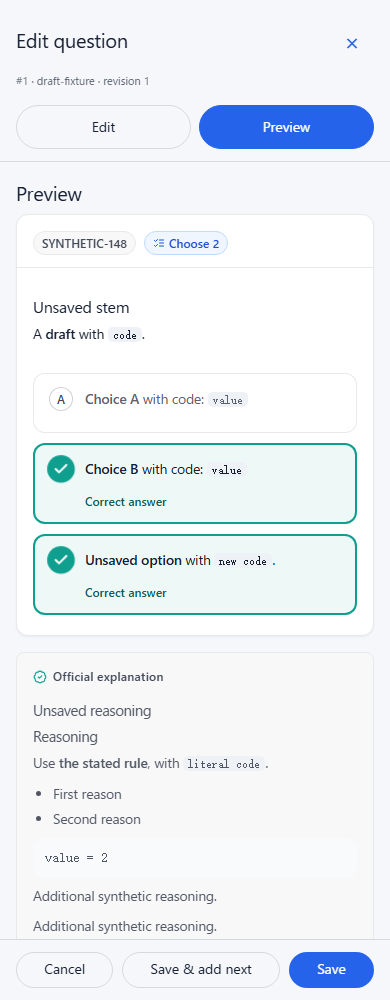
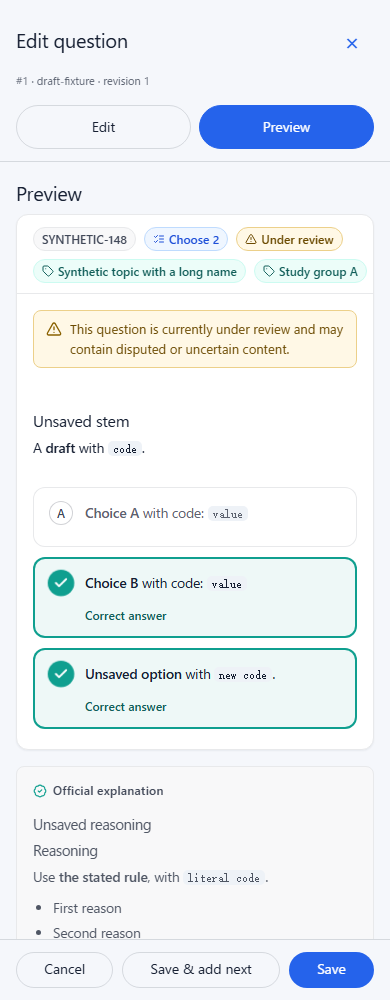
Preserve Learning notices and responsive preview presentation

diff --git a/apps/web/src/components/QuestionDraftPreview.tsx b/apps/web/src/components/QuestionDraftPreview.tsx
@@ -1,22 +1,35 @@
+import { useEffect, useState } from "react";
 import type { QuestionForm } from "../lib/questionAuthoring";
 import { formPayload } from "../lib/questionAuthoring";
 import { questionTypeLabel } from "../lib/questionTypes";
+import { breakpointsFor } from "../lib/responsive";
 import QuestionContent from "./QuestionContent";
-import { OfficialExplanation, OptionGroup, OptionRow, QuestionBadges } from "./study/StudyKit";
+import { OfficialExplanation, OptionGroup, OptionRow, QuestionBadges, UnderReviewNotice } from "./study/StudyKit";
 
 // Presentation only: the unsaved form is the source of truth. Do not mount a
 // study screen/provider or the AI-backed ExplanationPanel in authoring.
 export default function QuestionDraftPreview({ form }: { form: QuestionForm }) {
+  const [bp, setBp] = useState(() => breakpointsFor(window.innerWidth, window.innerHeight));
+  useEffect(() => {
+    const resize = () => setBp(previous => {
+      const next = breakpointsFor(window.innerWidth, window.innerHeight);
+      return next.phone === previous.phone && next.landscapePhone === previous.landscapePhone ? previous : next;
+    });
+    window.addEventListener("resize", resize);
+    return () => window.removeEventListener("resize", resize);
+  }, []);
+  const flow = bp.phone || bp.landscapePhone;
   const { correctAnswers } = formPayload(form);
   const multi = form.type === "multiple_choice";
   const typeLabel = multi && !correctAnswers.length ? "Multiple choice" : questionTypeLabel({ type: form.type, chooseCount: correctAnswers.length });
   return (
-    <div className="pd-study question-draft-preview">
+    <div className={`pd-study question-draft-preview${bp.phone ? " st-phone" : ""}${flow ? " st-flow" : ""}${bp.landscapePhone ? " st-landscape" : ""}`}>
       <section className="st-card st-q" aria-label="Question">
         <div className="st-q-head">
-          <QuestionBadges label={form.externalId || null} typeLabel={typeLabel} multi={multi} tags={form.tags} underReview={form.needsReview} />
+          <QuestionBadges label={form.externalId || null} typeLabel={typeLabel} multi={multi} tags={form.tags} compact={flow} underReview={form.needsReview} />
         </div>
         <div className="st-q-body">
+          <UnderReviewNotice question={form} />
           <div className="st-stem"><QuestionContent src={form.stem} /></div>
           <div className="st-opts">
             {form.type === "fill_blank" ? (

diff --git a/apps/web/src/components/study/StudyKit.tsx b/apps/web/src/components/study/StudyKit.tsx
@@ -221,7 +221,7 @@ export function UnderReviewBadge() {
   return <span className="st-badge st-badge--warn" title={UNDER_REVIEW_NOTICE}><Icon d={IC.alert} size={12} />Under review</span>;
 }
 
-export function UnderReviewNotice({ question }: { question: Question }) {
+export function UnderReviewNotice({ question }: { question: Pick<Question, "needsReview"> }) {
   if (!question.needsReview) return null;
   return (
     <div className="st-review-note" role="note">

diff --git a/apps/web/src/styles/app.css b/apps/web/src/styles/app.css
@@ -534,9 +534,6 @@ header .exam-selector--compact .exam-selector__menu {
 }
 @media (max-width: 600px) {
   .question-editor-pane { padding: 20px 16px; }
-  .question-draft-preview .st-q-head { padding: 16px 16px 12px; }
-  .question-draft-preview .st-q-body { padding: 20px 16px; }
-  .question-draft-preview .st-stem { font-size: 16px; }
 }
 .question-editor [aria-invalid=true] { border-color: var(--color-danger, #b42318); }
 

diff --git a/docs/screenshots/question-editor-preview.md b/docs/screenshots/question-editor-preview.md
@@ -12,6 +12,12 @@ The official explanation shares Learning's pure renderer and is expanded in the
 editor. All content comes from the unsaved form. Interactive try-answer and
 explanation-table support are outside this slice.
 
+**Needs review** displays the shared learner warning above the stem as well as
+the badge. Card spacing, typography and compact tags reuse Learning's
+`st-phone`/`st-flow`/`st-landscape` classes and shared `breakpointsFor` rules,
+including phones below 620px and landscape windows below 1100px and 500px high.
+The editor retains its own pane scrolling and fully expanded explanation.
+
 The editor does not mount `LearningLive`, a study provider, or the AI-backed
 `ExplanationPanel`. Component-question preview/diagnostics and the responsive
 pane lifecycle described below remain unchanged. The
@@ -21,17 +27,24 @@ Run the following to reproduce the local browser checks. The runner executes
 the scripts sequentially; `SCREENSHOT_DIR` retains captures.
 
 ```bash
-npm run test:browser -- question-draft-preview question-editor-preview question-authoring question-content question-card-layout answer-state component-annotations
+npm run test:browser -- question-draft-preview question-editor-preview question-authoring question-content question-card-layout answer-state component-annotations under-review
 ```
 
 The new `question-draft-preview` fixture runs the real editor without a study
 provider, against a loopback-only synthetic API. A separate browser page renders
-the real Learning screen with a frozen test snapshot and action spies for
-comparison. Across single choice, multiple choice, true/false and fill-in at
-390px and 1440px, it verifies:
+the real Learning screen with a frozen test snapshot and action spies. That
+reference responds to its actual viewport through the same breakpoint function
+as the application; it is not fixed to desktop. Across single choice, multiple
+choice, true/false and fill-in at 390×1000, 619×1000, 620×1000, 844×390 and
+1440×1000, it verifies:
 
-- Exact stem, option/accepted-answer and official-explanation markup parity,
-  plus computed answer styling parity with Learning.
+- Exact stem, option/accepted-answer and official-explanation title/prose markup
+  parity, plus computed answer, header/body spacing, typography and tag styling.
+- Needs-review badge and warning parity when toggling the unsaved flag both ways,
+  clean dismissal after reverting it, and saving/reopening the changed flag.
+- Long compact tags' markup, focus and horizontal scrolling, plus live resizing
+  across 619/620px, 499/500px height and 1099/1100px landscape boundaries without
+  remounting the card.
 - Unsaved edits to every displayed content/answer field, multiple correct
   answers, literal Unicode/Markdown fill-in alternatives and preserved whitespace.
 - Expanded long explanations, incomplete drafts, no horizontal overflow,
@@ -51,15 +64,21 @@ Node.js 24.19.0 on Windows using synthetic data only. External requests are
 blocked in the new fixture, so hosted fonts use system fallbacks. This evidence
 does not claim production verification or screen-reader speech testing.
 
-Local verification passed lint, all workspace type checks, the web build,
+Initial local verification passed lint, all workspace type checks, the web build,
 584 Worker tests, 67 shared tests, 150 web tests, the three browser-runner tests
-and the seven browser suites above. The unmodified web test command encounters
+and the original seven browser suites. The unmodified web test command encounters
 two existing Windows file-path import failures in `markdown-tables.test.mjs`;
 all 150 pass with a temporary, ignored Node resolver converting drive-letter
 imports to file URLs, without changing assertions. Linux CI runs the ordinary
 command. The new browser regression was also run against the original master
 editor and failed because the Learning card markup was absent; the implementation
 was restored afterward. There are no API, migration or deployment changes.
+
+The review correction reran lint, workspace type checks, all 150 web tests
+(with the same Windows resolver), the web build, and the expanded draft-preview,
+responsive-editor, question-card-layout and under-review browser suites. All
+passed. The refreshed screenshots include the unsaved Needs-review warning and
+long tags; the regression exercises all 20 viewport/type combinations above.
 
 ![Unsaved multiple-choice draft at 1440px](learning-card-preview/wide.png)
 

diff --git a/docs/guides/question-bank-authoring.md b/docs/guides/question-bank-authoring.md
@@ -19,6 +19,9 @@ from Preview reveals and focuses a field that needs correction.
 The preview uses Learning's read-only question card, with correct options
 identified by a checkmark and **Correct answer** text. Fill-in questions show
 every accepted answer; blank lines are ignored, and answer text stays literal.
+Checking **Needs review** shows both Learning's header badge and its warning
+above the stem. The card uses Learning's phone and short-landscape presentation,
+including compact, keyboard-accessible scrolling tags.
 The official explanation uses the same Markdown presentation as Learning and
 is fully expanded. Stem, options, answers and explanation reflect the unsaved
 draft. Previewing does not answer a question, mark it viewed or studied, request
